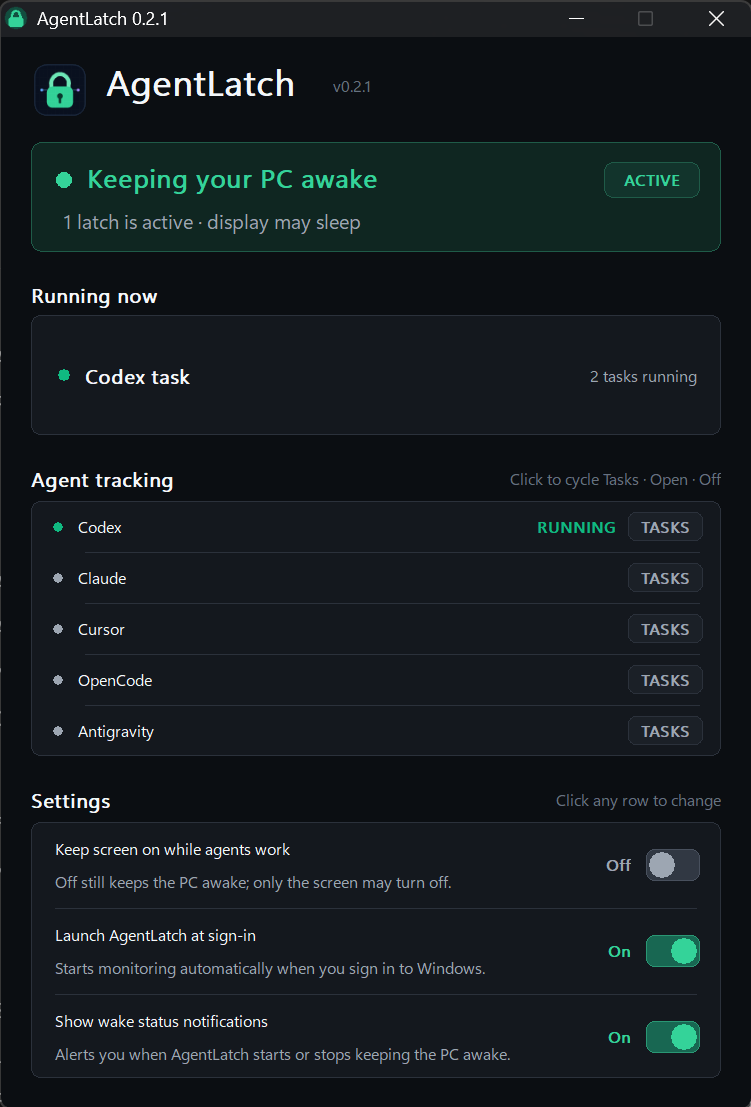
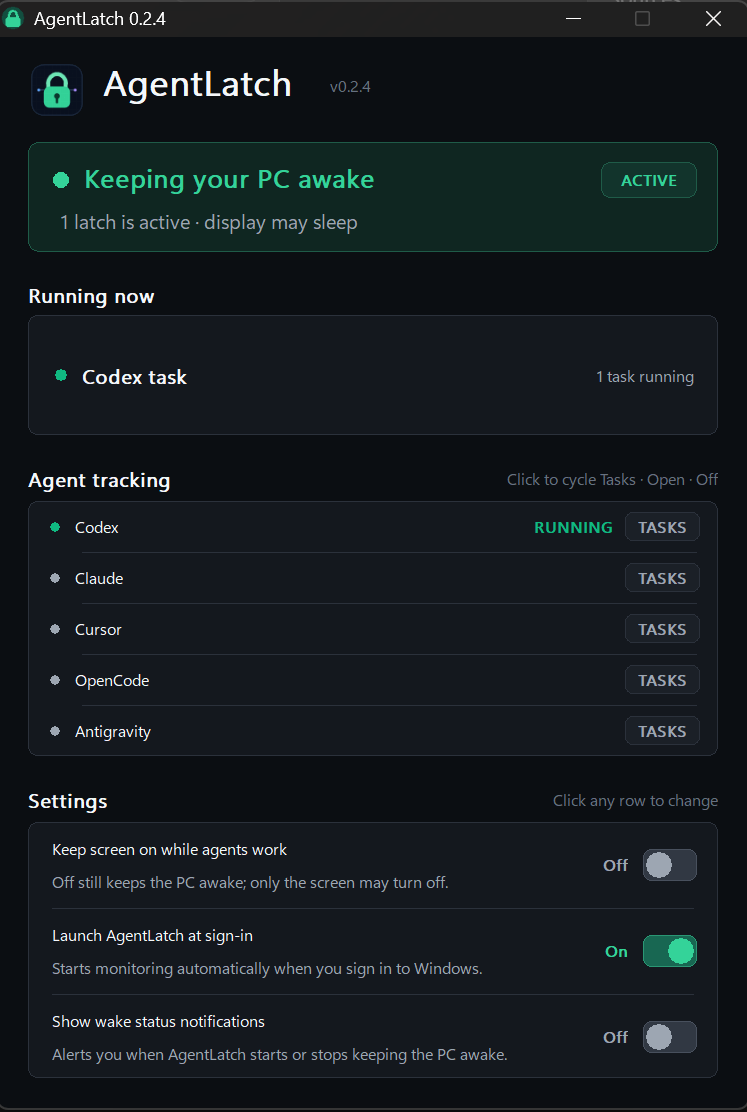
docs: refresh v0.2.4 public documentation

diff --git a/docs/ARCHITECTURE.md b/docs/ARCHITECTURE.md
@@ -38,15 +38,17 @@ The process detector scans every two seconds. A known agent root owns its descen
 - **Open** accepts process presence, including desktop shells.
 - **Off** accepts neither.
 
-Electron desktop applications are presence-capable but their process CPU or I/O is not activity-capable because background renderers, update checks, and language servers remain busy while the agent is idle. This prevents the OpenAI, Claude, Cursor, and Antigravity shells from creating false task latches. The unified OpenAI app has two explicit signal sources: AgentLatch scans recent local Codex session files for the latest `task_started` or `task_complete` marker and independently observes the primary composer command changing between idle and response state. The packaged `ChatGPT.exe` shell is classified as OpenAI/Codex only when it runs from the `OpenAI.Codex` Windows app package. A configurable grace period covers short thinking, network, or orchestration gaps.
+Electron desktop applications are presence-capable but their process CPU or I/O is not activity-capable because background renderers, update checks, and language servers remain busy while the agent is idle. This prevents the OpenAI, Claude, Cursor, and Antigravity shells from creating false task latches. The unified OpenAI app has two explicit signal sources: AgentLatch scans recent local Codex session files for the latest `task_started` or `task_complete` marker and independently observes the primary composer command changing between idle and response state. The packaged `ChatGPT.exe` shell is classified as OpenAI/Codex only when it runs from the `OpenAI.Codex` Windows app package.
 
 The OpenAI response probe runs outside the Win32 message-loop thread and polls every two seconds. It enumerates top-level windows only for the packaged OpenAI root PIDs supplied by `AgentDetector`, finds a Button whose class contains the exact `size-token-button-composer` and `bg-primary-solid` tokens, and walks to the nearest Document ancestor to distinguish ChatGPT from Codex. English Send and Stop names are recognized directly. Other locales learn a stable disabled idle command after three observations. A minimized composer remains valid even when UI Automation reports it as offscreen. Unknown Documents, empty names, inaccessible controls, COM failures, and snapshots older than four seconds produce no new latch.
 
-Codex JSONL state remains authoritative. When one or more lifecycle tasks are active, a simultaneous Codex composer response does not add another instance. A ChatGPT response or a Codex composer response with no matching JSONL task contributes one active instance and precise dashboard detail. While active, the probe refreshes the same activity timestamp used by the existing grace-period release behavior.
+Codex JSONL state remains authoritative. When one or more lifecycle tasks are active, a simultaneous Codex composer response does not add another instance. A regular ChatGPT response is a distinct concurrent reason and adds one instance even while Codex tasks run. A ChatGPT response or a Codex composer response with no matching JSONL task contributes one active instance and precise dashboard detail. Concurrent native OpenAI reasons share one compact provider row, but its instance count, dashboard headline, tray menu, and tooltip all reflect the full number of active reasons. While active, either native OpenAI signal refreshes the provider activity timestamp.
+
+The detector's activity grace defaults to 180 seconds and is clamped to 30–1,800 seconds when loaded. After a response ends or a Codex completion marker is discovered, the OpenAI detector can therefore remain latched for up to three minutes while the packaged app remains open. This covers brief thinking, network, orchestration, and signal-transition gaps. Closing the provider makes `running_instances` zero and releases the detector latch on the next reconciliation cycle. Provider **Off** mode also releases it immediately. This grace applies to detector state, not to the independent lifetime of hook or external leases.
 
 For a normal installed copy, the integration installer records that Claude lifecycle hooks are managed. In that state, Claude hooks are authoritative in **Tasks** mode and the generic Claude CLI activity result is suppressed. This prevents transient daemons, background PTY hosts, and resumed helper sessions from extending a latch after Claude has reported completion or its visible CLI has closed. **Open** mode deliberately continues to use process presence. A portable copy with no managed-hook status retains conservative CLI activity as a fallback.
 
-Both OpenAI desktop sources are read-only and bounded. The UI Automation probe reads only process/control metadata: process ID, control type, class name, enabled/offscreen state, accessibility command name, and nearest Document name. It never reads conversation messages, prompt edits, clipboard data, or app databases and never sends input. Every five seconds the Codex session scanner recursively discovers JSONL files across the full local session tree, then checks at most the 64 most recently written sessions plus any cached session that was previously active. This allows a task resumed from an older date folder to remain visible. Files last written before the current Codex desktop process generation are rejected, with a small timestamp tolerance, so an orphaned `task_started` marker from a previous app run cannot create a stale latch. The scanner reads backward in 64 KiB blocks until it finds the latest lifecycle marker, and caches results by path, size, and write time. Each eligible session whose latest marker is `task_started` contributes one active task instance; a later `task_complete` releases it on the next scan.
+Both OpenAI desktop sources are read-only and bounded. The UI Automation probe reads only process/control metadata: process ID, control type, class name, enabled/offscreen state, accessibility command name, and nearest Document name. It never reads conversation messages, prompt edits, clipboard data, or app databases and never sends input. Every five seconds the Codex session scanner recursively discovers JSONL files across the full local session tree, then checks at most the 64 most recently written sessions plus any cached session that was previously active. This allows a task resumed from an older date folder to remain visible. Files last written before the current Codex desktop process generation are rejected, with a small timestamp tolerance, so an orphaned `task_started` marker from a previous app run cannot create a stale latch. The scanner reads backward in 64 KiB blocks until it finds the latest lifecycle marker, and caches results by path, size, and write time. Each eligible session whose latest marker is `task_started` contributes one active task instance; a later `task_complete` removes that authoritative active instance on the next scan, after which the detector grace described above may still apply.
 
 Hooks are more precise because they name individual sessions, conversations, and subagents. Stop events release their latch immediately; leases are still bounded so a crashed hook source self-recovers. Antigravity's `fullyIdle` signal prevents a stop event from releasing while background work remains.
 

diff --git a/README.md b/README.md
@@ -6,16 +6,16 @@
 
 <p align="center"><strong>Your agents run. Your PC stays awake.</strong></p>
 
-AgentLatch is a lightweight, open-source Windows tray app that prevents idle sleep only while useful work is still running. It understands concurrent AI coding agents, exposes every active reason, and releases Windows the moment the final latch ends.
+AgentLatch is a lightweight, open-source Windows tray app that prevents idle sleep only while useful work is still running. It understands concurrent AI coding agents, exposes every active reason, and lets normal Windows sleep behavior return after the final source and any safety grace finish.
 
 <p align="center">
-  <img src="assets/dashboard.png" width="500" alt="AgentLatch dashboard showing an active Codex task">
+  <img src="assets/dashboard.png" width="500" alt="AgentLatch v0.2.4 dashboard showing an active Codex task">
 </p>
 
 ## Why AgentLatch
 
 - **Agent-aware:** watches Codex, Claude Code, Cursor, OpenCode, and Google Antigravity/Gemini CLI.
-- **Concurrency-safe:** every conversation, session, and subagent gets an independent latch; sleep resumes only after all active work releases.
+- **Concurrency-safe:** lifecycle-backed conversations, sessions, and subagents keep independent latches. A regular ChatGPT response counts alongside active Codex tasks; only an overlapping Codex composer response is deduplicated against its lifecycle task.
 - **Your choice of precision:** set every provider independently to **Tasks**, **Open**, or **Off**.
 - **Task-first by default:** the unified OpenAI app's response state, Codex lifecycle records, and provider hooks track actual work; conservative CLI activity detection is the fallback.
 - **Open when you want it:** presence mode deliberately latches while the selected app or CLI is merely running.
@@ -34,7 +34,7 @@ AgentLatch uses a Windows power request. It does not jiggle the mouse, synthesiz
 | OpenCode | CLI activity | CLI process | External lease API |
 | Google Antigravity / Gemini CLI | Antigravity hooks + CLI activity | Antigravity app or Gemini CLI | Antigravity conversations |
 
-In **Tasks** mode, opening an Electron app by itself never latches the computer. For the unified OpenAI Windows app, AgentLatch recognizes both active ChatGPT responses and Codex task lifecycle state, including while the app is minimized. Native lifecycle state and hooks acquire a bounded latch when work begins and release it when the provider reports completion. Hook leases expire automatically if an agent crashes or never sends a final event. Click a provider in the dashboard to cycle **Tasks → Open → Off**.
+In **Tasks** mode, opening an Electron app by itself never latches the computer. For the unified OpenAI Windows app, AgentLatch recognizes both active ChatGPT responses and Codex task lifecycle state, including while the app is minimized. Detector activity is sampled every two seconds and retains a three-minute safety grace by default while the provider remains open; closing the provider or turning it **Off** releases that detector latch immediately. Hook stop events release their matching lifecycle latch immediately, and hook leases expire automatically if an agent crashes or never sends a final event. Click a provider in the dashboard to cycle **Tasks → Open → Off**.
 
 ## Install
 
@@ -47,7 +47,7 @@ Setup installs AgentLatch for the current user without an administrator prompt, 
 
 Codex, Claude Code, Cursor, and Google Antigravity lifecycle integrations are installed automatically. Existing provider configuration is preserved, duplicate entries are avoided, and a timestamped backup is made before a changed JSON file is written. The Windows uninstaller removes only AgentLatch's own integration entries.
 
-OpenAI desktop detection is native and automatic. AgentLatch reads Codex's local start/complete lifecycle stream and observes the unified app's primary Send/Stop command metadata so ChatGPT responses also keep the PC awake. It never reads prompt or conversation content. No chat command, hook trust dialog, or separate setup step is required. Codex CLI hooks remain an additional signal when available.
+OpenAI desktop detection is native and automatic for the packaged unified Windows app. AgentLatch reads Codex's local start/complete lifecycle markers and observes only the primary composer button's Windows accessibility metadata so ChatGPT responses also keep the PC awake. English Send/Stop names are recognized directly; other locales are learned conservatively from a stable disabled idle command. AgentLatch never reads prompt, response, or conversation content. If the expected control cannot be classified after an app update, detection fails closed instead of keeping the PC awake. No chat command, hook trust dialog, or separate setup step is required. Codex CLI hooks remain an additional signal when available.
 
 Windows may display a SmartScreen warning until project releases are Authenticode-signed.
 
@@ -102,7 +102,7 @@ The x64 build script runs the executable's self-test before reporting success. C
 Build the setup executable after compiling AgentLatch:
 
 ```powershell
-.\scripts\build-installer.ps1 -Executable .\build\Release\AgentLatch.exe -Version 0.2.4
+.\scripts\build-installer.ps1 -Executable .\build-x64\Release\AgentLatch.exe -Version 0.2.4
 ```
 
 ## Design principles
@@ -113,7 +113,7 @@ Build the setup executable after compiling AgentLatch:
 - Dashboard settings explain the difference between PC wake protection, keeping the screen on, and launching AgentLatch at Windows sign-in.
 - Every automatic path has a timeout or observable process state.
 - Provider integrations are additive and editable; existing hook configuration belongs to the user.
-- Normal Windows sleep behavior returns immediately when the last latch releases.
+- Normal Windows sleep behavior returns when the last latch releases; detector activity may intentionally remain latched for its bounded safety grace.
 
 Read [Architecture](docs/ARCHITECTURE.md), [Privacy](docs/PRIVACY.md), and [Contributing](CONTRIBUTING.md) for more.
 

diff --git a/docs/INTEGRATIONS.md b/docs/INTEGRATIONS.md
@@ -6,7 +6,7 @@ AgentLatch gives every provider one of three modes:
 2. **Open** latches whenever the selected app or CLI process exists.
 3. **Off** ignores that provider and releases its automatic latches.
 
-Desktop Electron processes perform background work even when no agent is running, so AgentLatch deliberately does not use their CPU or I/O as evidence of a task. The unified OpenAI app uses its primary composer response state for ChatGPT and its local task start/complete lifecycle stream for Codex. Claude Code, Cursor, and Google Antigravity use lifecycle hooks in **Tasks** mode. CLI-only processes retain activity detection as a fallback. Every path feeds the same latch registry, so concurrent reasons are counted independently.
+Desktop Electron processes perform background work even when no agent is running, so AgentLatch deliberately does not use their CPU or I/O as evidence of a task. The unified OpenAI app uses its primary composer response state for ChatGPT and its local task start/complete lifecycle stream for Codex. Claude Code, Cursor, and Google Antigravity use lifecycle hooks in **Tasks** mode. CLI-only processes retain activity detection as a fallback. Every path feeds the same latch registry. Distinct lifecycle identities are counted independently. A regular ChatGPT response counts alongside active Codex tasks; only an overlapping Codex composer response is deduplicated.
 
 ## Installing hooks
 
@@ -48,13 +48,13 @@ The normal Windows uninstaller removes these entries automatically while leaving
 
 Restart active agent sessions after changing hooks so they reload their configuration. The unified OpenAI desktop app requires none of these hook steps; its native response and Codex lifecycle detection work immediately.
 
-## Codex
+## OpenAI desktop and Codex CLI
 
 Configuration: `%USERPROFILE%\.codex\hooks.json`
 
-For the unified OpenAI desktop app, AgentLatch recognizes an active ChatGPT response from the primary composer command's read-only Windows accessibility metadata. It does not read the prompt or conversation. The signal continues while the app is minimized and fails closed if an app update makes the expected control unavailable.
+For the packaged unified OpenAI desktop app, AgentLatch recognizes an active ChatGPT or Codex response from the primary composer command's read-only Windows accessibility metadata. It targets only the expected `OpenAI.Codex` app package, samples every two seconds, and distinguishes the ChatGPT and Codex Documents for an accurate dashboard label. English Send/Stop names are recognized directly; other locales are learned only after a disabled idle command remains stable for three observations. The signal continues while the app is minimized and fails closed if an app update makes the expected control unavailable. AgentLatch does not read the prompt, response, or conversation.
 
-For Codex tasks, AgentLatch reads the local JSONL lifecycle stream and treats `task_started` without a later `task_complete` as active work. Merely leaving the app open does not latch. Concurrent active task files become independent latch instances, and an overlapping composer signal is deduplicated instead of counted again.
+For Codex tasks, AgentLatch checks the local JSONL lifecycle stream every five seconds and treats `task_started` without a later `task_complete` as active work. Merely leaving the app open does not latch. Concurrent active task files become independent latch instances. An overlapping Codex composer signal is deduplicated, while a simultaneous regular ChatGPT response adds another active instance and appears as combined OpenAI work in the dashboard.
 
 For Codex CLI, configured hook events include session start, prompt submission, tool use, subagent start/stop, and task stop. The event's `session_id` becomes the stable latch identity; subagent IDs receive their own latches.
 
@@ -64,7 +64,7 @@ AgentLatch accepts Codex hook JSON on standard input:
 "C:\path\to\AgentLatch.exe" --hook codex
 ```
 
-Codex CLI also has conservative process-activity detection as a fallback. See the official [Codex hooks reference](https://developers.openai.com/codex/hooks/).
+Codex CLI also has conservative process-activity detection as a fallback. See the official [Codex hooks reference](https://learn.chatgpt.com/docs/hooks).
 
 ## Claude Code
 
@@ -119,8 +119,10 @@ Supported source keys are `codex`, `claude`, `cursor`, `opencode`, `gemini`, `an
 
 ## Lease behavior
 
+- Native detector state is refreshed every two seconds; Codex lifecycle files are rediscovered every five seconds.
+- Detector activity retains a 180-second safety grace by default while the provider remains open. Closing the provider or switching it **Off** releases the detector latch on the next reconciliation cycle.
 - Hook leases default to 30 minutes and renew whenever useful lifecycle activity arrives.
 - External leases default to 30 minutes and accept a TTL from 0 to 86,400 seconds.
-- A stop event releases its matching session or subagent immediately.
+- A stop event releases its matching hook session or subagent immediately; an independent native detector signal or its safety grace can still keep that provider latched.
 - A missing stop event cannot keep the computer awake forever: the TTL eventually releases it.
 - Disabling a provider in the dashboard removes that provider's automatic and hook latches immediately.

diff --git a/docs/PRIVACY.md b/docs/PRIVACY.md
@@ -8,14 +8,14 @@ It does not include analytics, advertising, telemetry, crash upload, an account 
 
 - process IDs, executable names, parent-child relationships, CPU time, and I/O counters for agent detection;
 - bounded backward-read blocks from recent local Codex session JSONL files, searched only for the latest `task_started` or `task_complete` marker (AgentLatch does not parse or retain other record content);
-- read-only Windows UI Automation metadata for the unified OpenAI app's primary composer command: control type, class name, enabled/offscreen state, accessibility command name, nearest Document name, and owning process ID;
+- read-only Windows UI Automation metadata for the packaged unified OpenAI app's primary composer command: control type, class name, enabled/offscreen state, accessibility command name, nearest Document name, and owning process ID;
 - provider lifecycle JSON sent directly to the hook command, from which it uses event name, session/subagent identity, and the leaf workspace folder name; and
 - settings selected in the dashboard.
 
-Codex session blocks, OpenAI composer metadata, and hook input are processed in memory and discarded. AgentLatch does not enumerate or read conversation-message or prompt-edit controls. The dashboard displays only a short provider label and workspace leaf name. Active latches are memory-only.
+Codex session blocks, OpenAI composer metadata, and hook input are processed in memory and discarded. For English UI, the command name is expected to be Send or Stop; for other locales, the learned disabled-idle command name remains in memory only. AgentLatch does not enumerate or read conversation-message or prompt-edit controls. The dashboard displays only a short provider label and workspace leaf name. Active latches are memory-only.
 
 ## Data AgentLatch stores
 
-Settings are stored in `HKCU\Software\AgentLatch`. If enabled, Windows startup stores the executable path in the current user's Run key. The integration installer writes AgentLatch commands into provider-owned JSON files and creates timestamped backup copies beside changed files.
+Settings and integration-health markers are stored in `HKCU\Software\AgentLatch`. If enabled, Windows startup stores the executable path in the current user's Run key. The integration installer writes AgentLatch commands into provider-owned JSON files and creates timestamped backup copies beside changed files. Those backups preserve the provider configuration as it existed before AgentLatch changed it and remain under the user's profile until the user removes them.
 
 No AgentLatch data is sent off the computer.

diff --git a/CONTRIBUTING.md b/CONTRIBUTING.md
@@ -12,12 +12,25 @@ Install Visual Studio 2022 Build Tools with Desktop development with C++, plus C
 
 The project treats compiler warnings as errors. The x64 build must pass `AgentLatch.exe --self-test`; ARM64 must compile successfully.
 
+The default x64 output is `build-x64\Release\AgentLatch.exe`. Before submitting a behavior change, run the focused checks that cover it. A complete local verification is:
+
+```powershell
+.\scripts\build.ps1
+.\tests\version.tests.ps1 -AgentLatchPath .\build-x64\Release\AgentLatch.exe -ExpectedVersion 0.2.4
+.\tests\integration-installer.tests.ps1 -AgentLatchPath .\build-x64\Release\AgentLatch.exe
+.\tests\install.tests.ps1 -AgentLatchPath .\build-x64\Release\AgentLatch.exe
+```
+
+Installer changes should also be compiled with `build-installer.ps1 -TestBuild` and exercised with `tests\installer.tests.ps1`. That test refuses to run against the production AppId.
+
 ## Pull requests
 
 - Keep AgentLatch native, local-only, and usable without administrator rights.
 - Preserve existing provider configuration when changing integration scripts.
 - Add a bounded timeout to every automatic acquisition path.
 - Avoid new runtime dependencies unless they materially improve reliability and remain appropriate for a tray utility.
+- Keep UI Automation work off the message-loop thread, restricted to explicitly targeted processes and controls, and fail closed when metadata cannot be classified.
+- Do not inspect or retain prompts, responses, conversation messages, terminal output, clipboard data, or source content.
 - Update documentation when behavior or command-line options change.
 - Explain how the change was tested.
 

diff --git a/CHANGELOG.md b/CHANGELOG.md
@@ -12,6 +12,15 @@ All notable changes to AgentLatch will be documented here.
 
 - OpenAI desktop response detection runs in a read-only background UI Automation worker and observes only the primary composer command metadata. Prompt and conversation content are never read.
 - Codex JSONL lifecycle tasks remain authoritative and are deduplicated against the unified app response signal.
+- The dashboard identifies a UI-derived latch as either a ChatGPT response or a Codex response instead of presenting both as a generic Codex task.
+
+### Fixed
+
+- A regular ChatGPT response now adds its own active instance while Codex lifecycle tasks run; only a Codex composer response is deduplicated against those tasks.
+- Dashboard, tray-menu, and tooltip counts now include concurrent instances represented by an aggregated provider latch.
+- Numeric Windows file and product version resources now stay synchronized with the user-visible semantic version.
+- Source-build and integration documentation now describes the actual output paths, detection timing, release grace, and OpenAI privacy boundary.
+- The installed documentation bundle now includes every local file and image linked from its README.
 
 ## [0.2.3] - 2026-08-01
 

diff --git a/SECURITY.md b/SECURITY.md
@@ -13,3 +13,5 @@ Please do not disclose a vulnerability in a public issue before a fix is availab
 ## Security model
 
 AgentLatch is a per-user desktop process. It opens no network port and does not run elevated. Its local IPC assumes processes running as the same signed-in user share that user's trust boundary. Hook and lease payloads are bounded and sanitized, but they are not an authorization boundary between same-user processes.
+
+Codex lifecycle files, provider hook JSON, process metadata, and Windows UI Automation metadata are treated as untrusted detector input. Reads and payloads are bounded, unknown states fail closed, and the OpenAI accessibility probe is restricted to processes in the expected packaged app. The probe is read-only and never sends input to the OpenAI app.
